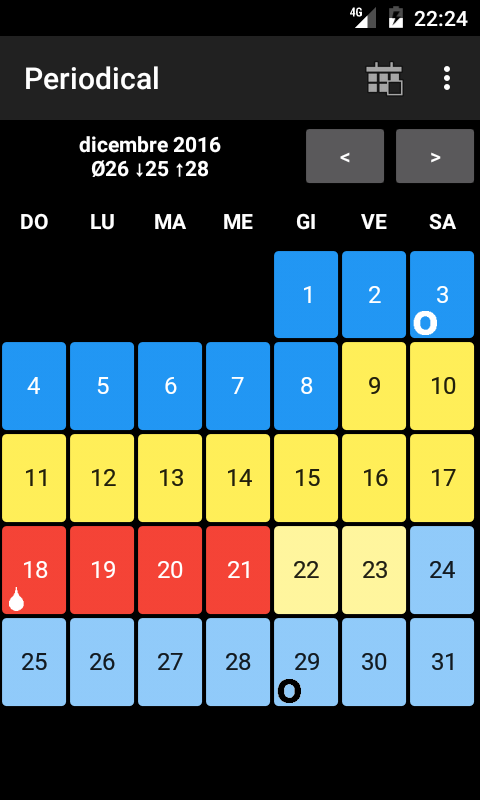
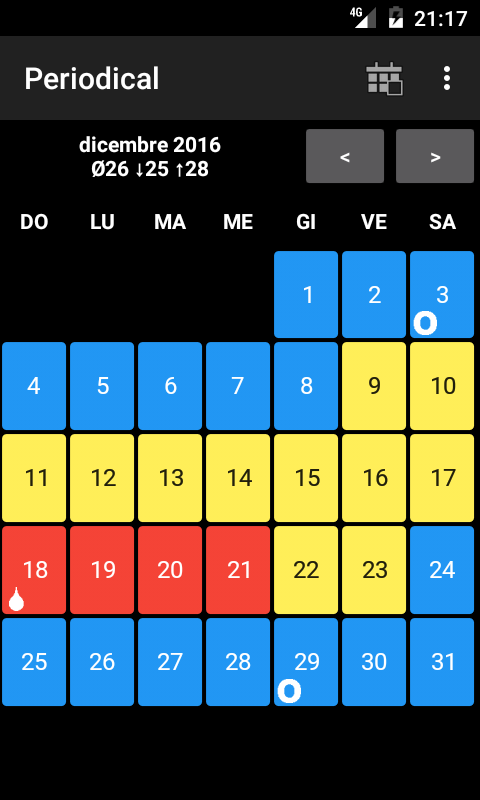
Partly reverted stuff for predicted entry types and modified backup procedure.

Changed region(s): [[0.0, 0.6562, 1.0, 0.9062], [0.875, 0.0, 0.9688, 0.0312]]

diff --git a/app/src/main/assets/ru/about.html b/app/src/main/assets/ru/about.html
@@ -5,7 +5,7 @@
 <title>О программе</title>
 </head>
 <body>
-<h1>Periodical 0.25</h1>
+<h1>Periodical 0.27</h1>
 
 <h2>Расчет фертильности по методу Огино&#8211;Кнауса<br />
 Copyright © 2012-2016 Arno Welzel</h2>

diff --git a/app/src/main/assets/es/about.html b/app/src/main/assets/es/about.html
@@ -5,7 +5,7 @@
 <title>Acerca de...</title>
 </head>
 <body>
-<h1>Periodical 0.25</h1>
+<h1>Periodical 0.27</h1>
 
 <h2>Cálculo de fertilidad de acuerdo a Knaus&#8211;Ogino<br />
 Copyright © 2012-2016 Arno Welzel</h2>

diff --git a/app/src/main/assets/it/about.html b/app/src/main/assets/it/about.html
@@ -5,7 +5,7 @@
 <title>A proposito</title>
 </head>
 <body>
-<h1>Periodical 0.25</h1>
+<h1>Periodical 0.27</h1>
 
 <h2>Calcolo della fertilità in base a Knaus&#8211;Ogino<br />
 Copyright © 2012-2016 Arno Welzel</h2>

diff --git a/app/src/main/assets/fr/about.html b/app/src/main/assets/fr/about.html
@@ -5,7 +5,7 @@
 <title>À propos</title>
 </head>
 <body>
-<h1>Periodical 0.25</h1>
+<h1>Periodical 0.27</h1>
 
 <h2>Calcul de la fertilité selon la méthode Knaus-Ogino<br />
 Copyright © 2012-2016 Arno Welzel</h2>

diff --git a/app/src/main/assets/en/about.html b/app/src/main/assets/en/about.html
@@ -5,7 +5,7 @@
 <title>About</title>
 </head>
 <body>
-<h1>Periodical 0.25</h1>
+<h1>Periodical 0.27</h1>
 
 <h2>Calculation of fertility according to Knaus&#8211;Ogino<br />
 Copyright © 2012-2016 Arno Welzel</h2>

diff --git a/app/src/main/assets/nl/about.html b/app/src/main/assets/nl/about.html
@@ -5,7 +5,7 @@
 <title>Over</title>
 </head>
 <body>
-<h1>Periodical 0.25</h1>
+<h1>Periodical 0.27</h1>
 
 <h2>Berekening van vruchtbaarheid volgens Knaus&#8211;Ogino<br />
 Copyright © 2012-2016 Arno Welzel</h2>

diff --git a/app/src/main/assets/de/about.html b/app/src/main/assets/de/about.html
@@ -5,7 +5,7 @@
 <title>Über</title>
 </head>
 <body>
-<h1>Periodical 0.25</h1>
+<h1>Periodical 0.27</h1>
 
 <h2>Berechnung der Fruchtbarkeit nach  Knaus-Ogino<br />
 Copyright © 2012-2016 Arno Welzel</h2>

diff --git a/app/src/main/assets/cs/about.html b/app/src/main/assets/cs/about.html
@@ -5,7 +5,7 @@
 <title>About</title>
 </head>
 <body>
-<h1>Periodical 0.25</h1>
+<h1>Periodical 0.26</h1>
 
 <h2>Výpočet plodnosti podle Knaus&#8211;Ogino<br />
 Copyright © 2012-2016 Arno Welzel</h2>

diff --git a/app/src/main/java/de/arnowelzel/android/periodical/PeriodicalDatabase.java b/app/src/main/java/de/arnowelzel/android/periodical/PeriodicalDatabase.java
@@ -320,14 +320,14 @@ public class PeriodicalDatabase {
                         type = (cycles == 0 ? DayEntry.PERIOD_CONFIRMED : DayEntry.PERIOD_PREDICTED);
                     } else if (day == ovulationday) {
                         // Day of ovulation
-                        type = DayEntry.OVULATION_PREDICTED_FUTURE;
+                        type = (cycles == 0 ? DayEntry.OVULATION_PREDICTED : DayEntry.OVULATION_PREDICTED_FUTURE);
                     } else if (day >= this.shortest - 18
                             && day <= this.longest - 11) {
                         // Fertile days
-                        type = DayEntry.FERTILITY_PREDICTED_FUTURE;
+                        type = (cycles == 0 ? DayEntry.FERTILITY_PREDICTED : DayEntry.FERTILITY_PREDICTED_FUTURE);
                     } else {
                         // Infertile days
-                        type = DayEntry.INFERTILE_FUTURE;
+                        type = (cycles == 0 ? DayEntry.INFERTILE : DayEntry.INFERTILE_FUTURE);
                     }
 
                     DayEntry entryCalculated = new DayEntry(type, datePredicted, dayofcycle);
@@ -469,34 +469,33 @@ public class PeriodicalDatabase {
         // If everything is ok, then copy source to destination
         if (ok) {
             if (backup) {
-                if(destDir.mkdirs()) {
-                    FileInputStream in = null;
-                    FileOutputStream out = null;
+                destDir.mkdirs();
+
+                FileInputStream in = null;
+                FileOutputStream out = null;
+                try {
+                    in = new FileInputStream(sourceFile);
+                    out = new FileOutputStream(destFile);
+                } catch (IOException e) {
+                    ok = false;
+                    e.printStackTrace();
+                }
+
+                if (ok) {
+                    byte[] buffer = new byte[4096];
+                    int bytesRead;
+
                     try {
-                        in = new FileInputStream(sourceFile);
-                        out = new FileOutputStream(destFile);
+                        while ((bytesRead = in.read(buffer)) != -1)
+                            out.write(buffer, 0, bytesRead);
+
+                        in.close();
+                        out.close();
                     } catch (IOException e) {
-                        ok = false;
                         e.printStackTrace();
-                    }
-
-                    if (ok) {
-                        byte[] buffer = new byte[4096];
-                        int bytesRead;
-
-                        try {
-                            while ((bytesRead = in.read(buffer)) != -1)
-                                out.write(buffer, 0, bytesRead);
-
-                            in.close();
-                            out.close();
-                        } catch (IOException e) {
-                            e.printStackTrace();
-                            ok = false;
-                        }
+                        ok = false;
                     }
                 }
-                else ok = false;
             }
         }
 
